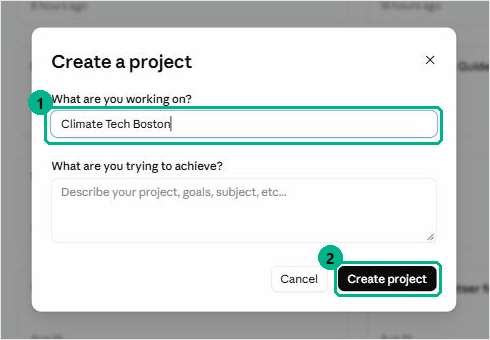
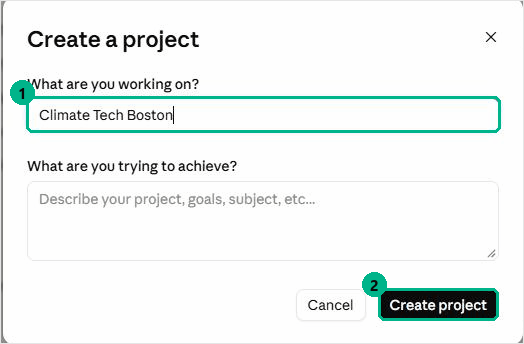
v10.1.1: install screenshots show a fresh account, not mine
Skills and Plugins now shot on the Discover tab, identical for every account,
instead of a Yours tab listing one person's 27 skills. The project shots come
from a project created fresh for the purpose: the dialog with its name typed,
and the empty Context panel with the plus sign marked.

diff --git a/set-up/index.html b/set-up/index.html
@@ -96,7 +96,7 @@
     <div class="note"><strong>Add the settings file to your project as a context file.</strong> Open your project. In the Context panel on the right, the plus sign, then the file. Not a chat attachment: those vanish with the conversation. Nothing else works until it is there.</div>
     <figure class="shot">
       <img src="../downloads/guide/project-files.png" alt="" loading="lazy" />
-      <figcaption>A project with its settings file in Context. <b>1</b> The plus sign adds a file. The source registry and the opportunities file go in the same place later.</figcaption>
+      <figcaption>Your project, before anything is in it. <b>1</b> The plus sign on Context adds a file. The source registry and the opportunities file go in the same place later.</figcaption>
     </figure>
     <nav class="pager" aria-label="Previous and next step">
       <a class="prev" href="../install/"><span class="k">Previous</span><span class="t"><span class="n">04</span>Install</span></a>

diff --git a/install/index.html b/install/index.html
@@ -65,7 +65,7 @@
         <p class="desc dim">Open <a class="go" href="https://claude.ai/customize/skills" target="_blank" rel="noopener">claude.ai/customize/skills</a>. <strong>Add</strong>, then <strong>Upload skill</strong>, then choose the ctc-chapter-setup zip you downloaded.</p>
         <figure class="shot">
           <img src="../downloads/guide/skills-add.png" alt="" loading="lazy" />
-          <figcaption>Customize, then Skills. <b>1</b> Add. <b>2</b> Upload skill. It appears in the list once it is in.</figcaption>
+          <figcaption>Customize, then Skills. <b>1</b> Add. <b>2</b> Upload skill. Once it is in, it shows under Yours.</figcaption>
         </figure>
       </li>
       <li>

diff --git a/CHANGELOG.md b/CHANGELOG.md
@@ -2,6 +2,15 @@
 
 All toolkit releases. The site reads `version.json`; this file is the human-readable record.
 
+## 10.1.1 - 2026-09-12
+
+Four of the install screenshots re-taken so they show what a new account
+shows, not the account they were taken on. The Skills and Plugins shots now
+use the Discover tab, which is the same for everyone, rather than a Yours tab
+full of one person's skills. The project shots come from a project created
+fresh for the purpose: the dialog with its name typed, and the empty Context
+panel with the plus sign marked.
+
 ## 10.1.0 - 2026-09-11
 
 The install page is now six illustrated steps. Each one carries a direct link
